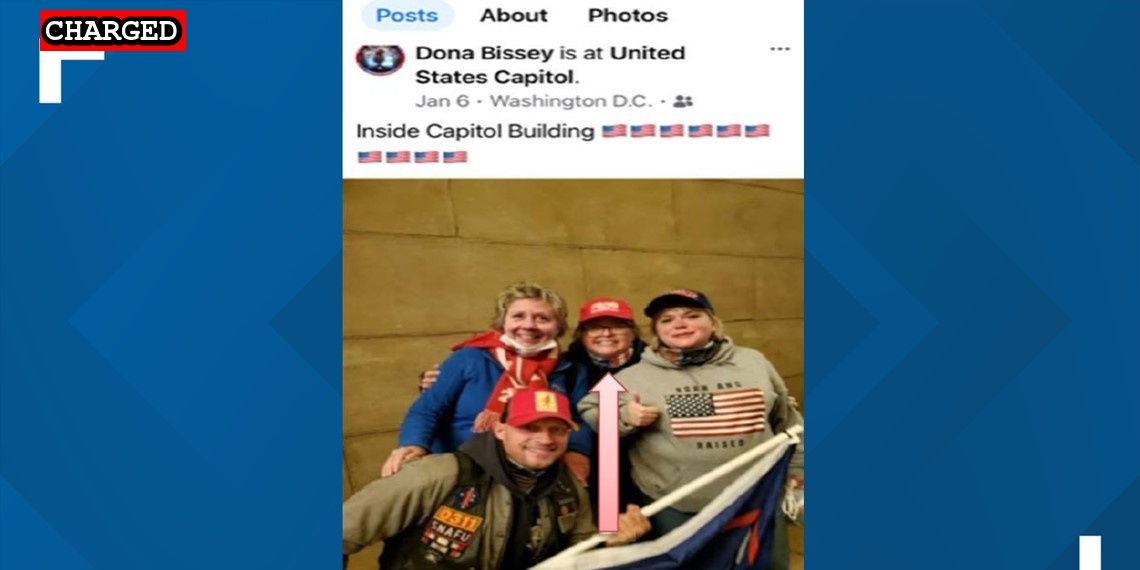
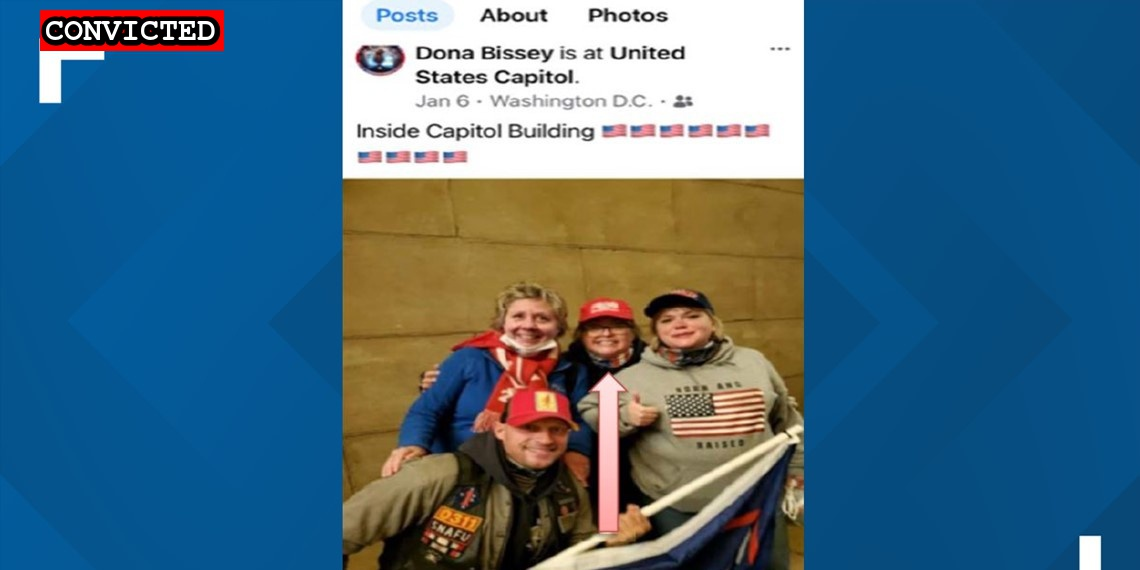
Donay Bissey plea

Changed region(s): [[0.0307, 0.0, 0.2149, 0.0895]]

diff --git a/docs/_suspects/dona-bissey.md b/docs/_suspects/dona-bissey.md
@@ -3,11 +3,11 @@ name: Dona Bissey
 lastName: Bissey
 aka:
 residence: Indiana
-status: Charged
+status: Convicted
 date: 2021-02-24
 charged: 2021-02-24
 indicted:
-convicted: 
+convicted: 2021-07-19
 sentenced: 
 dismissed: 
 age: 52
